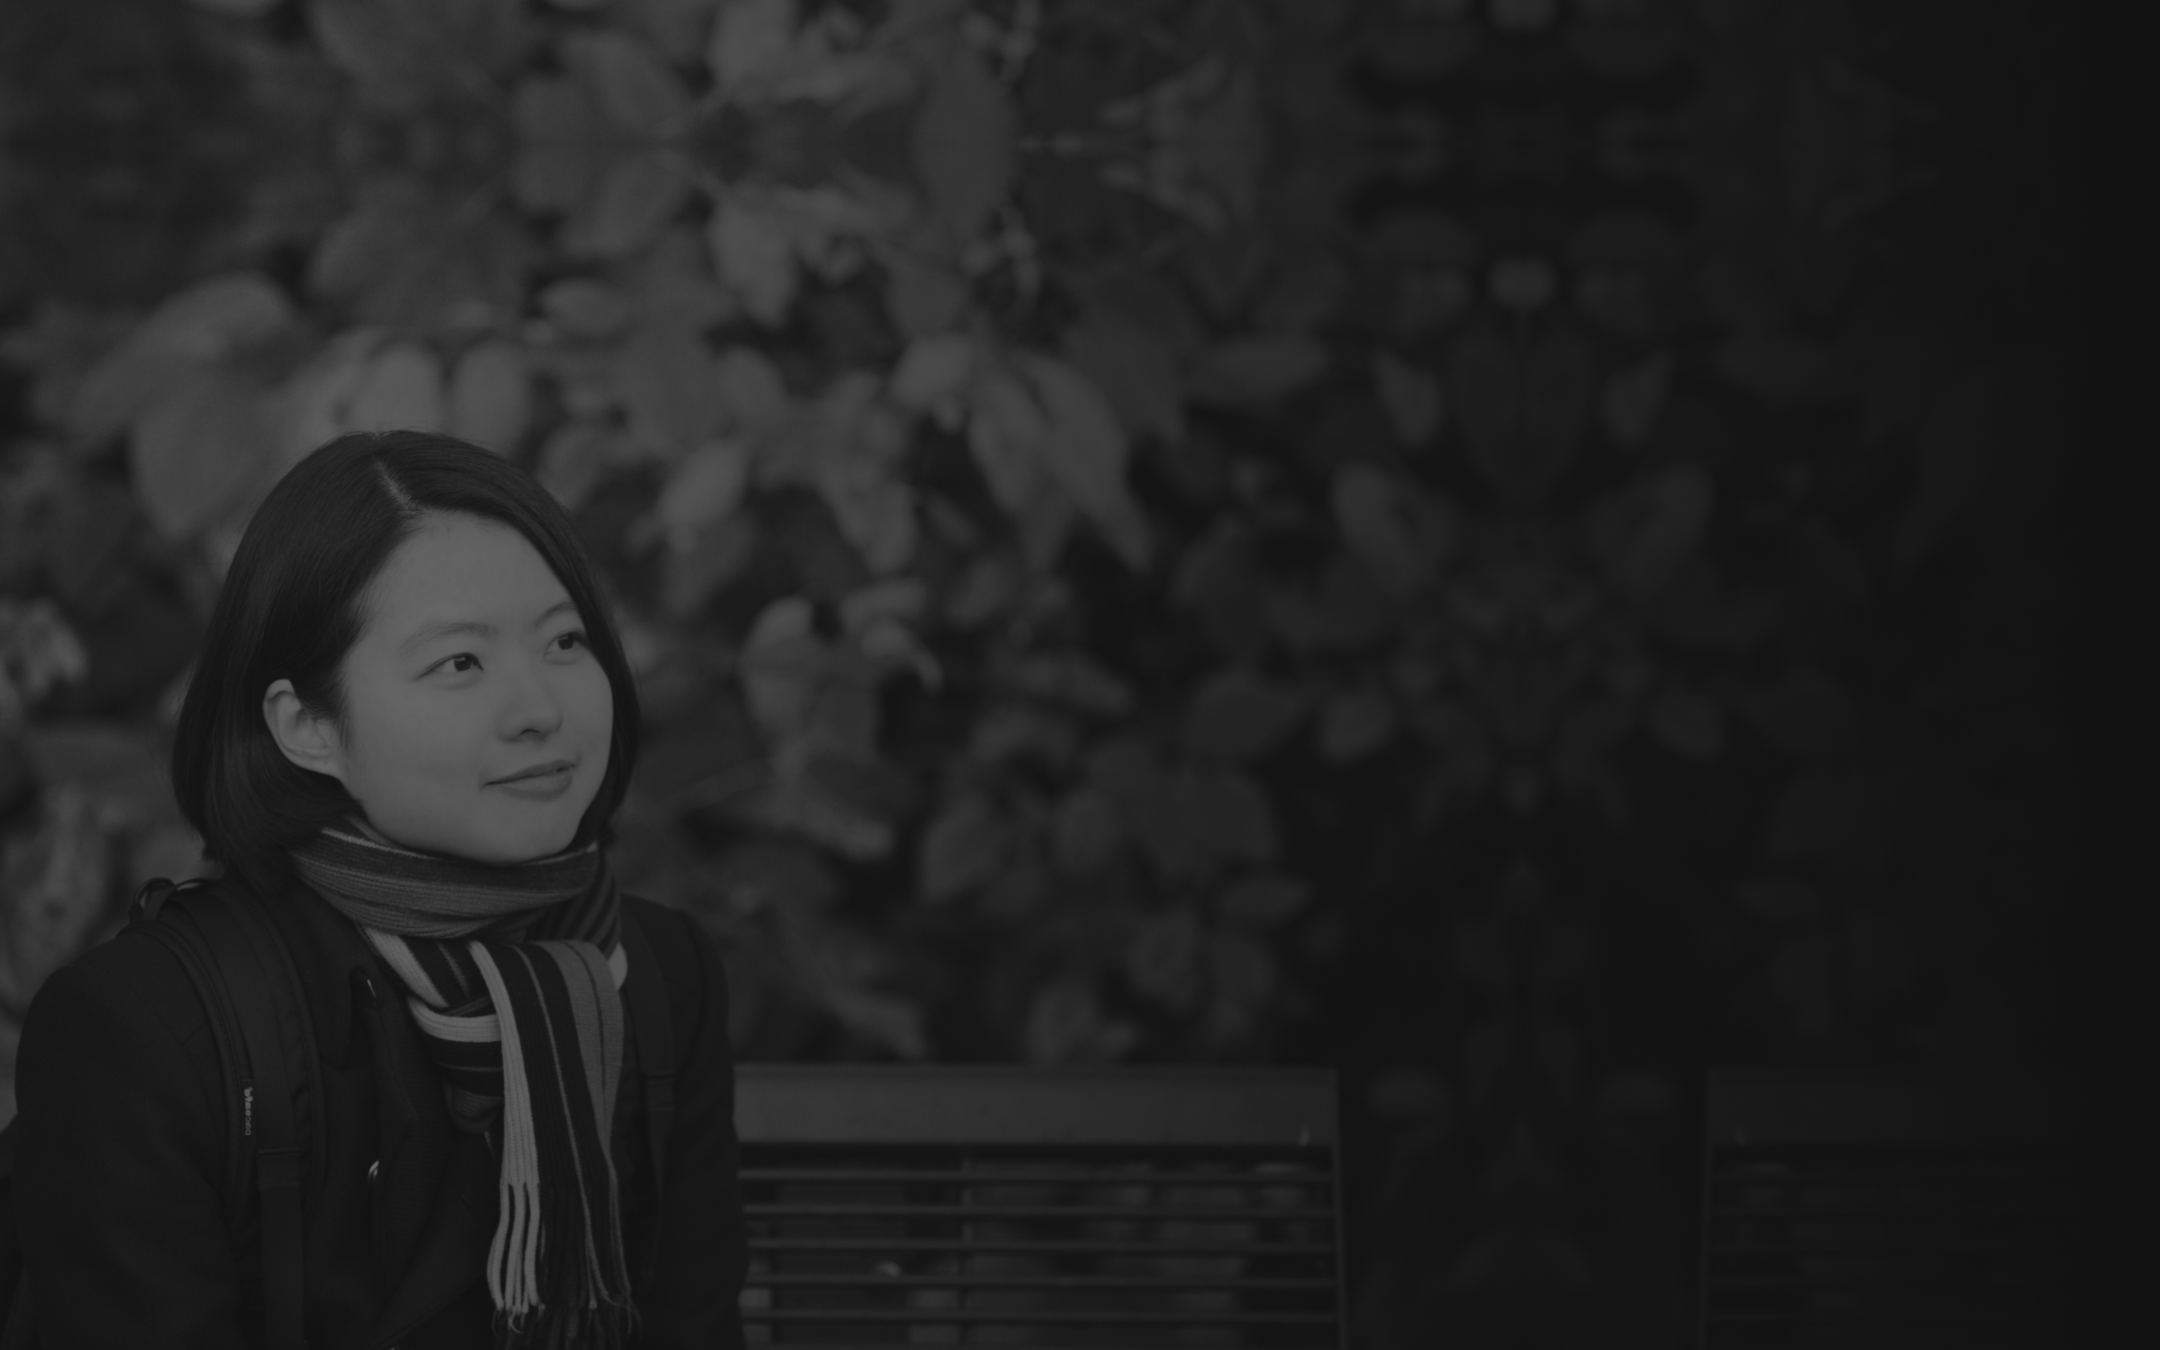
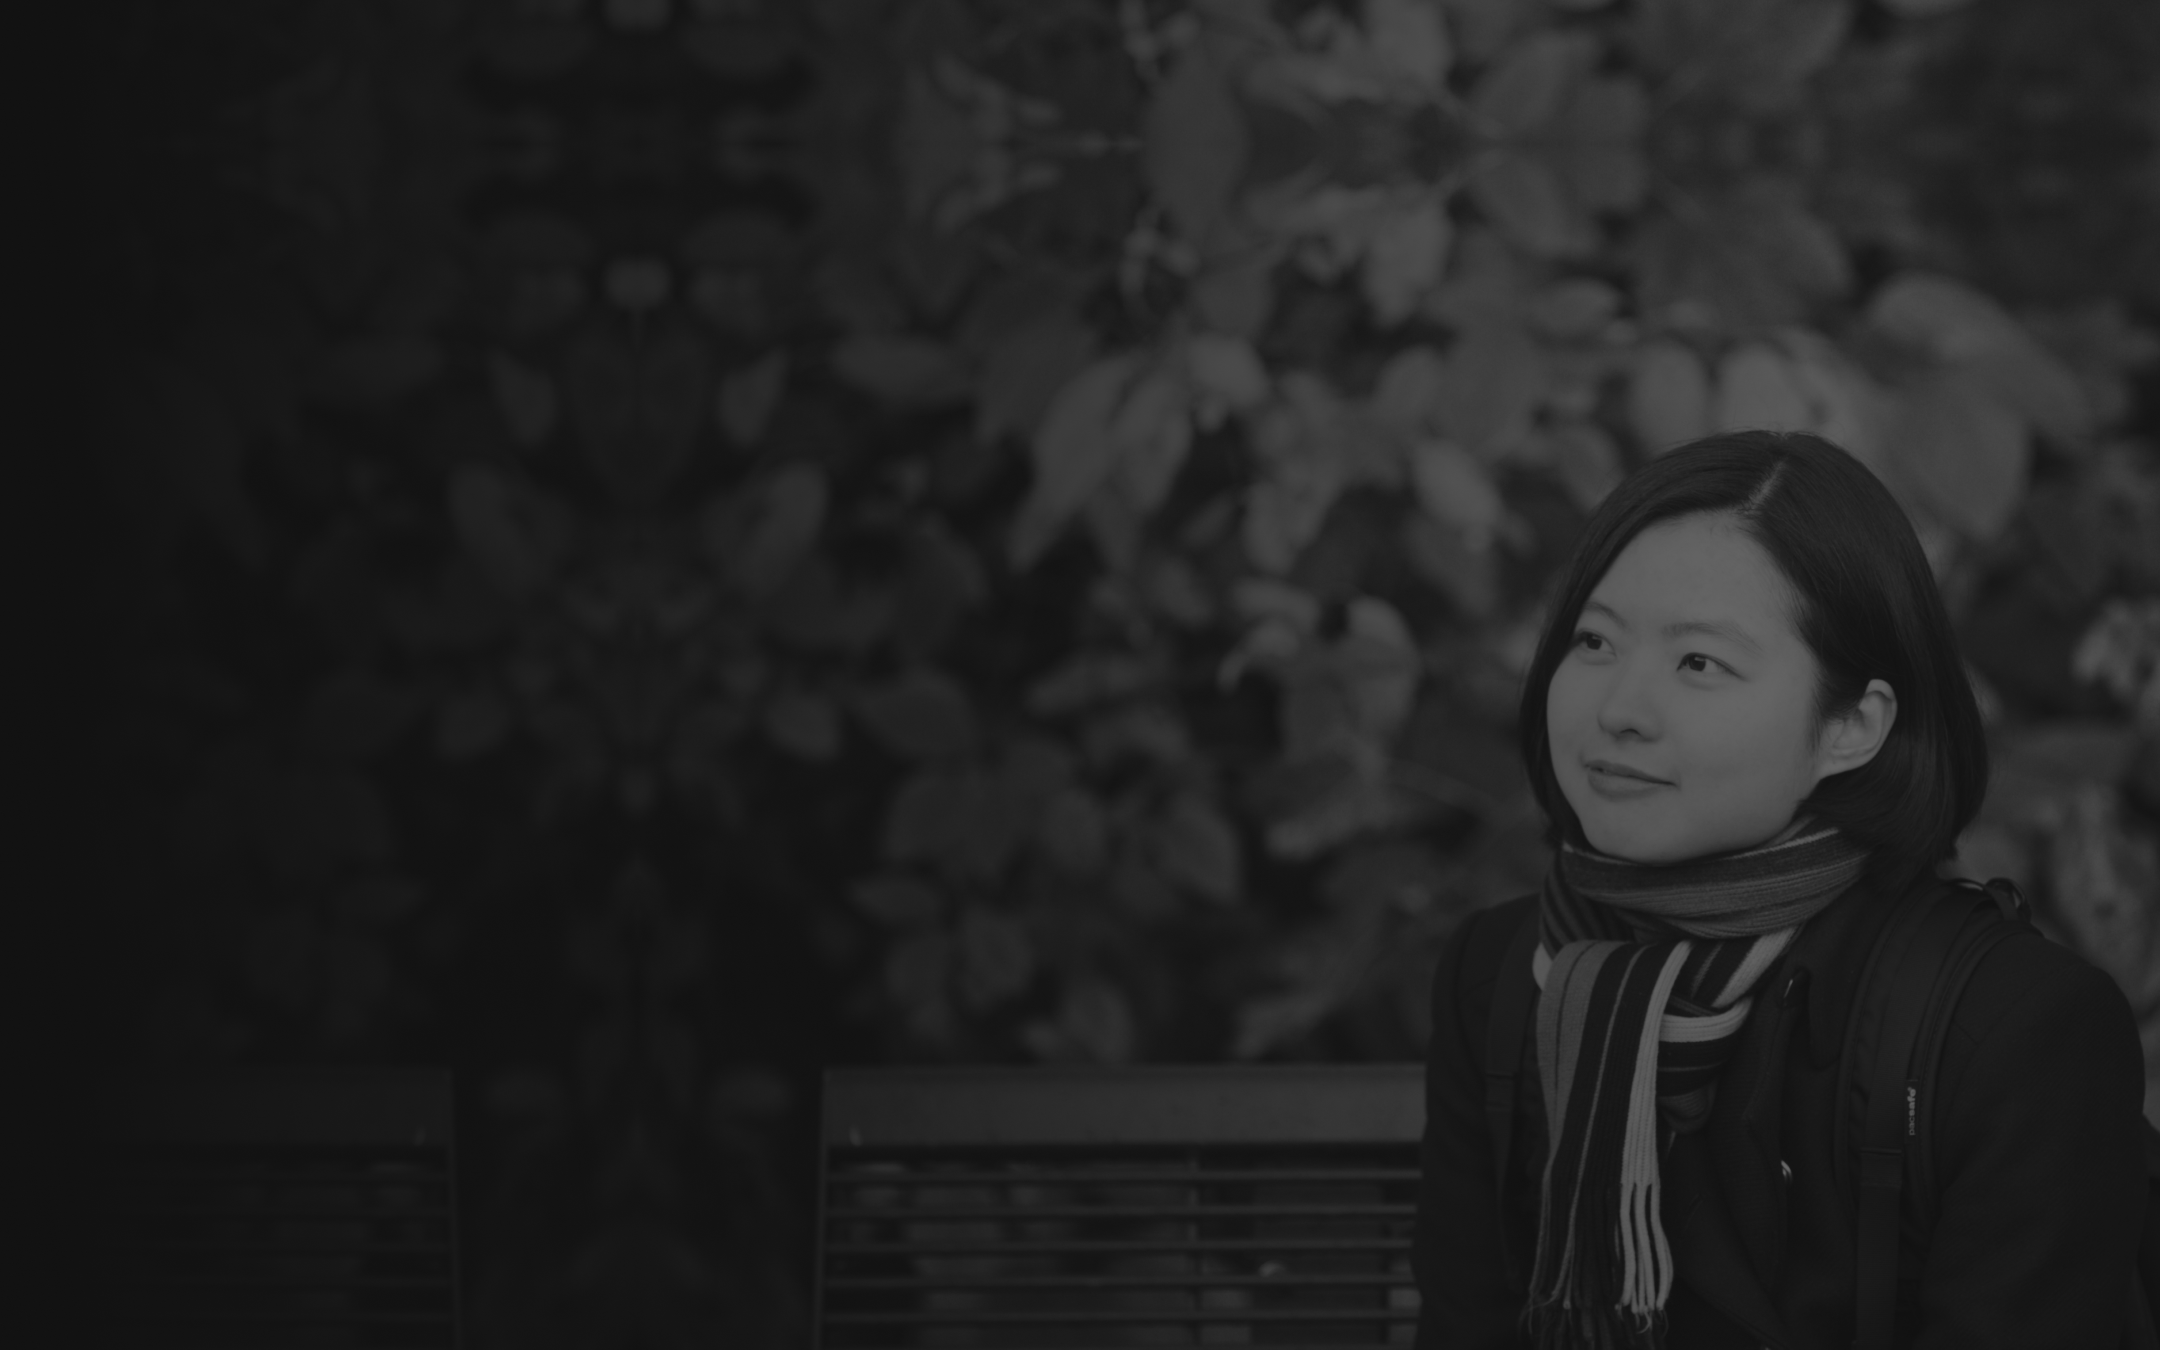
[about, css] change  about page design

diff --git a/src/css/main.css b/src/css/main.css
@@ -59,9 +59,6 @@ Global Styles
 *:focus {
   outline: none;
 }
-html {
-  scroll-behavior: smooth;
-}
 body {
   font-family: var(--ff-secondary);
   background: var(--clr-bg);
@@ -751,10 +748,10 @@ Services
   margin-bottom: 1rem;
 }
 .service-icon {
-  font-size: 1.75rem;
+  font-size: 2rem;
   stroke-width: 1.2;
   margin-bottom: 1.5rem;
-  color: var(--clr-grey-3);
+  color: var(--clr-grey-1);
 }
 .service .underline {
   width: 3rem;
@@ -788,13 +785,11 @@ Services
     margin-bottom: 0;
   }
 }
-
 /*
 =============== 
 Jobs
 ===============
 */
-
 .jobs-center {
   width: 80vw;
   margin: 0 auto;
@@ -831,8 +826,10 @@ Jobs
   box-shadow: 0 2px var(--clr-primary-5);
 }
 .job-date {
-  letter-spacing: var(--spacing);
-  margin-bottom: 0.5rem;
+  margin-bottom: 0.25rem;
+}
+.darken > p {
+  color: var(--clr-grey-7);
 }
 .job-desc {
   display: grid;
@@ -843,7 +840,6 @@ Jobs
 }
 .job-desc p {
   margin-bottom: 0;
-  color: var(--clr-grey-3);
 }
 .job-icon {
   color: var(--clr-primary-5);
@@ -866,7 +862,6 @@ Jobs
     box-shadow: -2px 0 var(--clr-primary-5);
   }
 }
-
 /*
 =============== 
 Education
@@ -878,12 +873,19 @@ Education
 .education-layout > div {
   width: 50%;
 }
+.education-layout article {
+  align-self: flex-start;
+  border-left: 2px solid var(--clr-primary-5);
+  padding-left: 20px;
+}
 .education-layout h3 {
   font-size: 1.25rem;
   text-transform: none;
 }
 .education-layout p {
   margin-bottom: 0;
+  line-height: 1.8rem;
+  color: var(--clr-grey-7);
 }
 .gap-top {
   margin-top: 2.5rem;
@@ -896,8 +898,12 @@ Education
   .education-layout > div {
     width: 100%;
   }
-  .education-layout > div:last-of-type {
+  .education-layout > article:last-of-type {
     margin-top: 5rem;
+  }
+  .education-layout article {
+    border-left: none;
+    padding-left: 0;
   }
 }
 @media screen and (max-width: 800px) {
@@ -1329,12 +1335,15 @@ Footer
 .mail-block h4,
 .mail-block svg {
   margin: 0px;
+  color: var(--clr-grey-3);
+}
+.mail-block svg {
+  font-size: 1.75rem;
 }
 .mail-block h4 {
-  color: var(--clr-grey-3);
   font-size: 14px;
   text-transform: uppercase;
-  margin-left: 8px;
+  margin-left: 0.75rem;
 }
 .footer-form-block {
   max-width: 600px;
@@ -1471,11 +1480,14 @@ About Page
   display: flex;
   justify-content: center;
 }
-.about-img {
-  margin-bottom: 2rem;
-  width: 40%;
-  left: 50%;
-  transform: translateX(-50%);
+.about-center {
+  display: grid;
+  grid-template-columns: repeat(12, 1fr);
+  align-items: center;
+  column-gap: 4rem;
+}
+.about-text {
+  grid-column: 1 / 7;
 }
 .about-text .section-title {
   margin-bottom: 2rem;
@@ -1492,6 +1504,7 @@ About Page
   text-transform: uppercase;
   color: var(--clr-grey-1);
   letter-spacing: var(--spacing);
+  -webkit-transition: var(--transition);
   transition: var(--transition);
 }
 .about-link:hover {
@@ -1501,23 +1514,11 @@ About Page
 .about-btn {
   margin: 0;
 }
-.stack-container {
-  width: 30rem;
-  display: grid;
-  grid-template-columns: 1fr 1fr 1fr;
-  row-gap: 0.5rem;
+.about-btn-wrapper {
+  display: inline-block;
 }
-.stack-container span {
-  text-transform: uppercase;
-  display: flex;
-  align-items: center;
-  letter-spacing: 1px;
-  color: var(--clr-grey-4);
-}
-.stack-icon {
-  color: var(--clr-primary-5);
-  margin-right: 0.25rem;
-  font-size: 1rem;
+#skillset {
+  background: var(--clr-primary-1);
 }
 .legend-container {
   display: flex;
@@ -1529,51 +1530,32 @@ About Page
   margin: 0px;
   margin-left: 0.75rem;
 }
-@media screen and (min-width: 992px) {
-  .about-center {
-    display: grid;
-    grid-template-columns: repeat(12, 1fr);
-    align-items: center;
-    column-gap: 4rem;
-  }
-  .about-img {
-    grid-column: 1 / span 5;
-    margin-bottom: 0;
-    width: 48%;
-  }
-  .about-text {
-    grid-column: 6 / -1;
-  }
-}
-@media screen and (max-width: 991px) {
-  .about-text {
-    height: 100%;
-    width: 50%;
-    display: flex;
-    flex-direction: column;
-    justify-content: flex-end;
-    float: right;
-  }
+@media screen and (max-width: 992px) {
   .intro,
   .intro::before,
   .intro::after {
-    background-position: 0% !important;
+    background-position: 80% !important;
   }
 }
 @media screen and (max-width: 600px) {
+  .about-btn-wrapper,
   .about-btn {
     width: 100%;
   }
   .about-page {
     padding: 2.5rem 0;
   }
+  .about-center {
+    grid-template-columns: 1fr;
+    align-items: flex-end;
+  }
   .about-text {
-    width: 100%;
+    grid-column: 1;
   }
   .intro,
   .intro::before,
   .intro::after {
-    background-position: 0% -30% !important;
+    background-position: right top !important;
     background-size: 100vh !important;
   }
 }

diff --git a/src/components/Footer.js b/src/components/Footer.js
@@ -9,7 +9,7 @@ const Footer = () => (
     <div className='section-center'>
       <div className='footer-container'>
         <div className='footer-link-block'>
-          <h3 className='footer-subtitle'>Navigate to</h3>
+          <h3 className='footer-subtitle'>Navigation</h3>
           <ul className={`page-links footer-links`}>
             {data.map(({ id, text, url }) => (
               <li key={id}>
@@ -22,7 +22,7 @@ const Footer = () => (
         </div>
 
         <div className='footer-media-block'>
-          <h3 className='footer-subtitle'>Find out More</h3>
+          <h3 className='footer-subtitle'>Contact Me</h3>
           <SocialLinks />
           <div className='mail-block'>
             <FiMail className='service-icon' />
@@ -31,7 +31,7 @@ const Footer = () => (
         </div>
 
         <div className='footer-form-block'>
-          <h3 id='myMsg' className='footer-subtitle'>Leave Me a Message</h3>
+          <h3 id='myMsg' className='footer-subtitle'>Send Me a Message</h3>
           <form
             action='https://formspree.io/mzbjjrrd'
             method='POST'

diff --git a/src/components/Education.js b/src/components/Education.js
@@ -1,4 +1,4 @@
-import React, { Fragment } from 'react';
+import React from 'react';
 import Title from './Title';
 
 const degree = [
@@ -32,19 +32,19 @@ const Education = () => (
     >
       <div>
         {degree.map(({ title, uni, city }, index) => (
-          <Fragment key={index}>
+          <article key={index}>
             <h3 className={index !== 0 ? 'gap-top' : null}>{title}</h3>
             <p>{uni}</p>
             <p>{city}</p>
-          </Fragment>
+          </article>
         ))}
       </div>
 
-      <div>
+      <article>
         <h3>Responsive Web Design Certification,</h3>
         <h3>JS Algorithms & Data Structures Certification</h3>
         <p>freeCodeCamp</p>
-      </div>
+      </article>
     </div>
   </section>
 );

diff --git a/src/pages/about.js b/src/pages/about.js
@@ -5,11 +5,11 @@ import { graphql } from 'gatsby';
 
 const Button = ({ text }) => (
   <div
+    className='about-btn-wrapper'
     data-sal='zoom-out'
     data-sal-duration={600}
     data-sal-delay={600}
     data-sal-easing='ease-in'
-    style={{ display: 'inline-block' }}
   >
     <a
       href={process.env.RESUME_LINK}

diff --git a/src/components/Jobs.js b/src/components/Jobs.js
@@ -36,7 +36,7 @@ const Jobs = () => {
             </button>
           ))}
         </div>
-        <article key={date} className='flyIn'>
+        <article key={date} className='flyIn darken'>
           <h3>{position}</h3>
           <p className='job-date'>{date}</p>
           <p>{country}</p>
